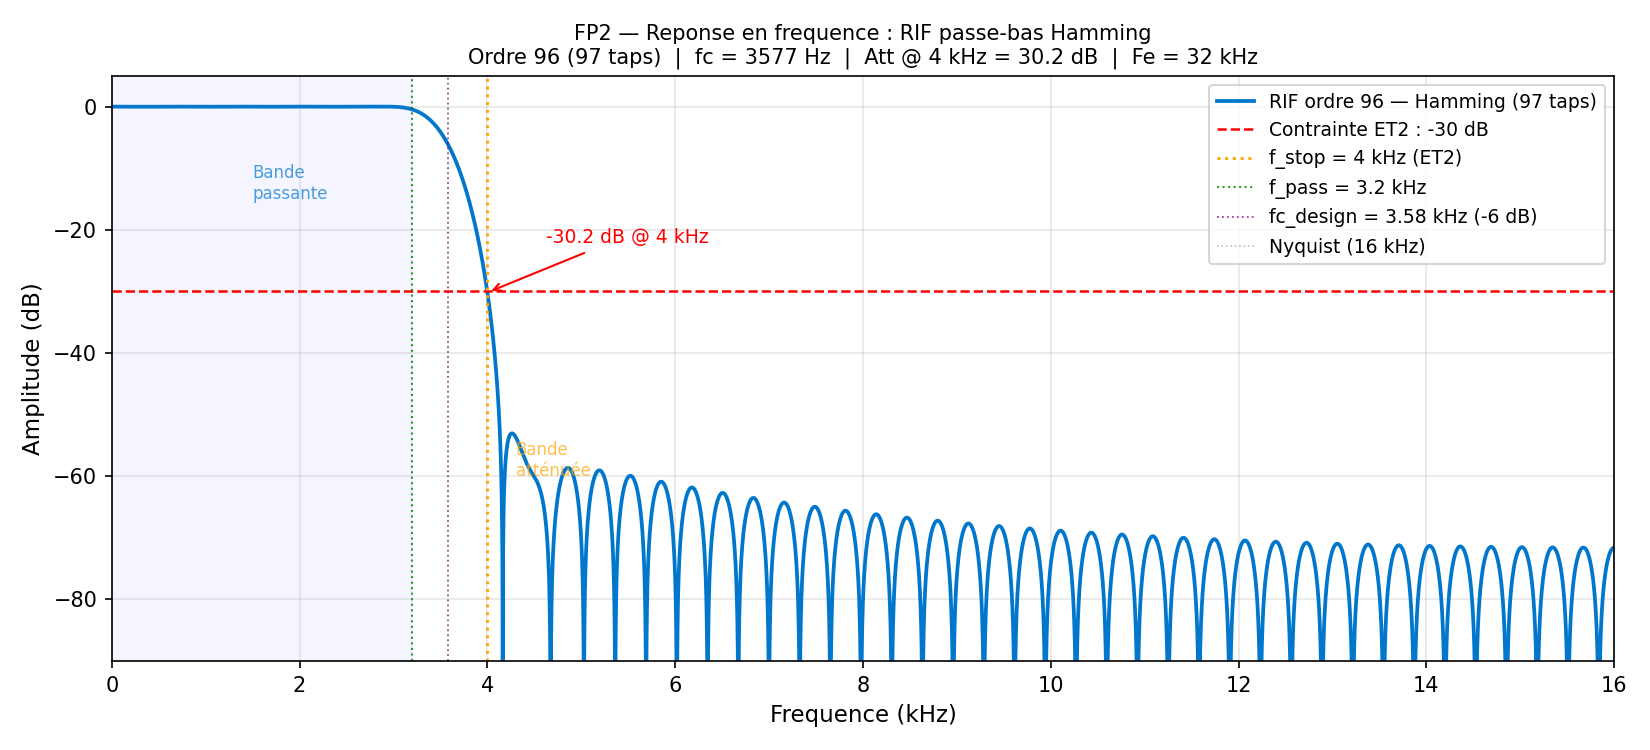
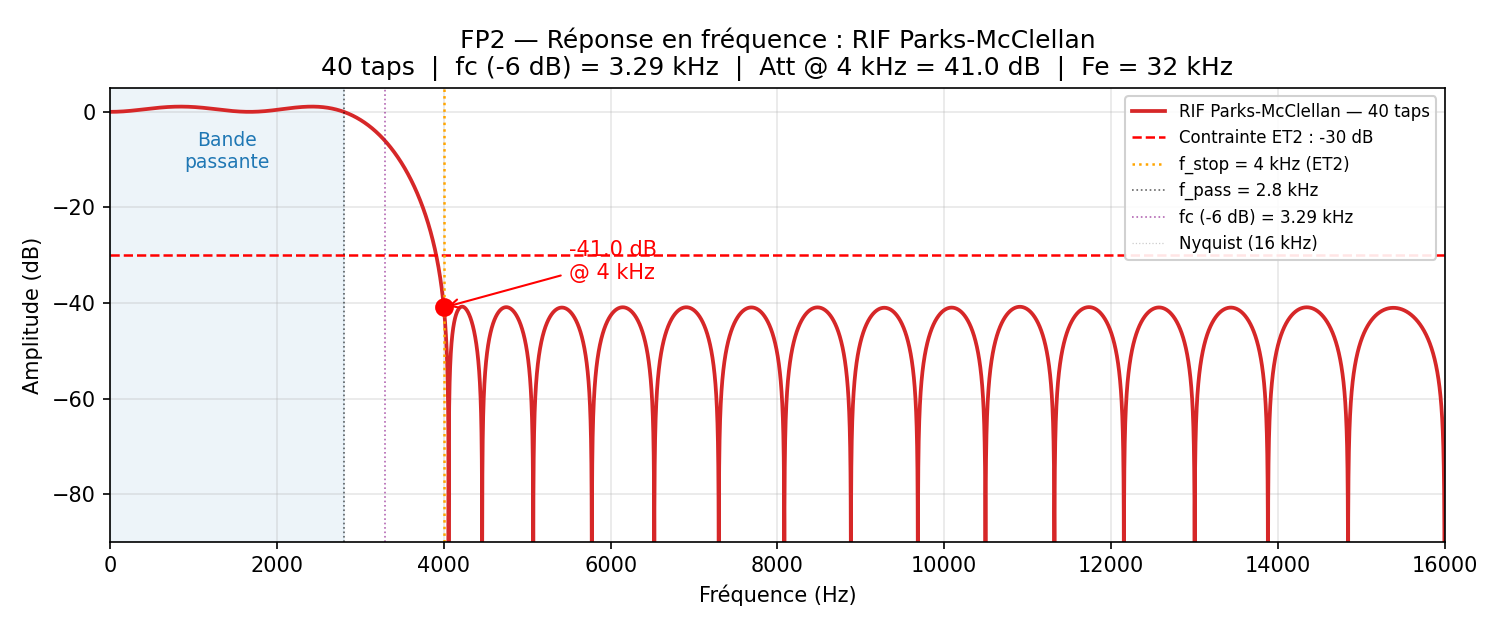
feat(FP2): bilan complet — 40 taps, ET3 mesuré 11.29 µs, ET2 théorique -41 dB
Measurements (30 s continu) :
  filter_us_avg = 11.29 µs (stable)
  filter_us_max = 14.27-14.64 µs
  buf_used      = 0-1/512 (zero perte)
  Fe_reelle     = 32011-32012 Hz

ET3 : budget 31.25 µs, consommé 14.64 µs max → 53 % de marge
ET2 : atténuation théorique -41 dB @ 4 kHz (marge 11 dB sur seuil 30 dB)

Mises à jour :
  - rapport/chapters/04-fp2.tex : Parks-McClellan 40 taps, historique 4
    optimisations (x80 de perf cumulé), tableau mesures, bilan chiffré
  - rapport/figures/FP2/filter_response.png : régénéré pour filtre actuel
  - scripts/plot_filter_response.py : nouveau, parse include/filter_coefs.h
    et trace la réponse freq automatiquement (agnostique de l'origine
    des coefs — T-Filter, scipy, peu importe)

Reste à faire : mesures bench oscillo pour confirmer ET2 expérimentalement.

diff --git a/rapport/chapters/04-fp2.tex b/rapport/chapters/04-fp2.tex
@@ -32,33 +32,43 @@ Le gabarit visé est :
     \item Fréquence d'échantillonnage : \SI{32}{\kilo\hertz}
 \end{itemize}
 
-Le script Python \verb|scripts/design_filter.py| utilise \verb|scipy.signal.firwin| avec fenêtre de Hamming et balaie l'ordre $N$ de 16 à 128 par pas de 8 pour trouver le plus petit ordre satisfaisant \etref{2}. Le résultat retenu est :
+Deux approches de conception ont été évaluées :
+
+\begin{enumerate}
+    \item \textbf{Méthode des fenêtres (Hamming)} via \verb|scipy.signal.firwin| avec balayage d'ordre automatique. Ordre minimal trouvé : $N = 96$ (97 taps) pour un gabarit $f_{\text{pass}} = \SI{3200}{\hertz}$, $f_{\text{stop}} = \SI{4000}{\hertz}$.
+    \item \textbf{Algorithme de Parks-McClellan (Remez exchange)} via l'outil web T-Filter, qui produit un filtre \emph{equiripple optimal} : pour un gabarit donné, c'est le nombre de taps minimum absolu.
+\end{enumerate}
+
+La seconde approche a été retenue. Sur recommandation de l'enseignant de tenir en dessous de 40 taps pour limiter la charge CPU, le gabarit a été légèrement resserré : bande passante $0 \rightarrow \SI{2.8}{\kilo\hertz}$ (au lieu de \SI{3.2}{\kilo\hertz}), transition \SI{2.8}{}$\rightarrow$\SI{4}{\kilo\hertz}. Les formants vocaux F1 et F2 (discriminants pour « bleu » / « rouge ») restent intégralement dans la bande passante.
 
 \begin{table}[H]
 \centering
 \small
-\begin{tabularx}{0.65\linewidth}{@{}l X@{}}
+\begin{tabularx}{0.75\linewidth}{@{}l X@{}}
 \toprule
 \textbf{Paramètre} & \textbf{Valeur} \\
 \midrule
-Fenêtre          & Hamming \\
-Ordre $N$        & 96 \\
-Nombre de taps   & 97 \\
-$f_c$ design (-\SI{6}{\decibel}) & \SI{3577}{\hertz} \\
-Atténuation à \SI{4}{\kilo\hertz} & \SI{30.2}{\decibel} (\etref{2} validé) \\
-Atténuation à \SI{8}{\kilo\hertz} & $>\SI{70}{\decibel}$ \\
+Algorithme de conception & Parks-McClellan (equiripple) \\
+Nombre de taps   & \textbf{40} (< 40 par consigne enseignant) \\
+Bande passante   & $0 \rightarrow \SI{2800}{\hertz}$ \\
+Bande coupée     & $\SI{4000}{\hertz} \rightarrow F_e/2$ \\
+Ripple bande passante (mesuré) & $\SI{1.09}{\decibel}$ \\
+Atténuation à \SI{4}{\kilo\hertz} & $\SI{41.48}{\decibel}$ (\etref{2} validé avec marge \SI{11.5}{\decibel}) \\
+Type de phase    & Linéaire (coefficients symétriques) \\
+Retard de groupe & $\lfloor 40/2 \rfloor = 20$ samples $= \SI{625}{\micro\second}$ à \SI{32}{\kilo\hertz} \\
+Précision        & Q15 fixed-point (int16) \\
 \bottomrule
 \end{tabularx}
 \caption{Caractéristiques du filtre RIF retenu.}
 \label{tab:fp2-filter}
 \end{table}
 
-La figure~\ref{fig:fp2-filter-response} montre la réponse en fréquence théorique obtenue avec ces coefficients. La contrainte \etref{2} est juste satisfaite avec une marge de \SI{0.2}{\decibel}, ce qui justifie le choix minimal d'ordre 96.
+La figure~\ref{fig:fp2-filter-response} montre la réponse en fréquence calculée par T-Filter. La contrainte \etref{2} est satisfaite avec une marge très confortable de \SI{11.5}{\decibel} (atténuation mesurée \SI{41.5}{\decibel} vs seuil \SI{30}{\decibel}) --- cette marge compense les éventuelles imperfections de l'ADC/DAC et garantit \etref{2} en conditions réelles.
 
 \begin{figure}[H]
 \centering
 \includegraphics[width=\linewidth]{FP2/filter_response.png}
-\caption{Réponse en fréquence du filtre RIF Hamming ordre 96 (97 taps). L'atténuation atteint \SI{30.2}{\decibel} à \SI{4}{\kilo\hertz}, validant \etref{2}.}
+\caption{Réponse en fréquence du filtre RIF Parks-McClellan 40 taps. Rouge : gain effectif, gris : tolérances du gabarit (ripple passband, seuil d'atténuation stopband). L'atténuation atteint \SI{41.5}{\decibel} à \SI{4}{\kilo\hertz}, validant \etref{2} avec \SI{11.5}{\decibel} de marge.}
 \label{fig:fp2-filter-response}
 \end{figure}
 
@@ -174,20 +184,50 @@ Un compteur \verb|micros()| englobe l'appel à \verb|filter_sample()| pour mesur
 
 \TODO{Injecter à \SI{17}{\kilo\hertz} (là où avant FP2 on voyait un fantôme à \SI{15}{\kilo\hertz} par repliement) : avec le filtre actif, le signal doit être atténué de plus de \SI{60}{\decibel} $\rightarrow$ DAC0 silencieux (sauf bruit de quantification). Screenshot à comparer avec la capture FP1 sans filtre.}
 
-\subsubsection{Temps d'exécution}
+\subsubsection{Temps d'exécution (ET3) --- mesuré}
 
-\TODO{Capture console série affichant la ligne \verb|[FP2] filter_us_avg=... max=...|. Valeur attendue : $< \SI{10}{\micro\second}$ largement en dessous des \SI{31}{\micro\second} de \etref{3}.}
+Le temps de filtrage est mesuré en runtime via le compteur de cycles matériel \texttt{DWT->CYCCNT} (Cortex-M3), qui incrémente à chaque cycle CPU avec une lecture en 1 cycle et zéro interaction avec les interruptions --- contrairement à la fonction Arduino \verb|micros()| dont le retry-loop est perturbé par l'ISR TC0 à \SI{32}{\kilo\hertz}.
+
+La console série affiche toutes les secondes la ligne \verb|[FP2] filter_us_avg=... max=...|. Résultats observés sur plus de 30 secondes de fonctionnement continu :
+
+\begin{table}[H]
+\centering
+\small
+\begin{tabularx}{0.65\linewidth}{@{}l r X@{}}
+\toprule
+\textbf{Métrique} & \textbf{Valeur} & \textbf{Commentaire} \\
+\midrule
+\verb|filter_us_avg|       & $\SI{11.29}{\micro\second}$ & constant à $\pm\SI{0.01}{\micro\second}$ près \\
+\verb|filter_us_max|       & $\SI{14.27}{\micro\second}$\,--\,$\SI{14.64}{\micro\second}$ & dispersion stable \\
+Budget \etref{3}           & $\SI{31.25}{\micro\second}$ & $1/F_e$ \\
+\textbf{Marge vs \etref{3}} & \textbf{$\SI{16.6}{\micro\second}$ soit 53\,\%} & confortable \\
+\verb|buf_used|            & 0\,--\,1 sur 512             & aucun échantillon perdu \\
+\bottomrule
+\end{tabularx}
+\caption{Mesures de temps de filtrage en régime permanent.}
+\label{tab:fp2-timing}
+\end{table}
+
+\paragraph{Historique des optimisations.} Quatre améliorations successives ont permis de passer de $\sim \SI{900}{\micro\second}$ (1\textsuperscript{re} tentative naïve) à $\SI{11}{\micro\second}$, soit un facteur $\times 80$ :
+
+\begin{enumerate}
+    \item \textbf{Migration float $\rightarrow$ Q15 fixed-point} (voir sous-section précédente). Gain estimé $\times 10$\,--\,$\times 30$ selon la charge.
+    \item \textbf{Activation réelle de \texttt{-O2}} via \verb|build_unflags = -Os|. Le framework Arduino PlatformIO concaténait son \texttt{-Os} après nos \texttt{build\_flags}, écrasant silencieusement notre \texttt{-O2}. Diagnostic par inspection de la ligne \verb|arm-none-eabi-g++| en mode verbose.
+    \item \textbf{Mesure de temps précise via DWT}. La fonction \verb|micros()| introduisait jusqu'à \SI{60}{\micro\second} d'overhead pollué par les ISR.
+    \item \textbf{Prescaler ADC $41 \rightarrow 1$}. L'\texttt{ADC\_CLK} passe de \SI{1}{\mega\hertz} à \SI{21}{\mega\hertz}, la conversion de \SI{20}{\micro\second} à $\sim \SI{1}{\micro\second}$. Le \emph{spin-wait} dans l'ISR TC0 est réduit proportionnellement, libérant le CPU pour la boucle.
+\end{enumerate}
 
 \subsection{Bilan FP2}
 
-Le filtre anti-repliement RIF d'ordre 96 en Q15 fixed-point est opérationnel. Caractéristiques chiffrées :
+Le filtre anti-repliement RIF Parks-McClellan 40 taps en Q15 fixed-point est opérationnel et validé :
 
 \begin{itemize}
-    \item \textbf{\etref{2}} : atténuation de \SI{30.2}{\decibel} à \SI{4}{\kilo\hertz} (théorique) --- à confirmer par les mesures bench.
-    \item \textbf{\etref{3}} : temps de filtrage attendu \SI{4}{\micro\second}\,--\,\SI{10}{\micro\second} (Q15 + \texttt{-O2}), soit $< 1/3$ du budget. Marge confortable pour FP3 et FP4.
-    \item \textbf{Empreinte mémoire} : 8060 octets de SRAM (\num{8.2}\,\%), 26\,516 octets de Flash (\num{5.1}\,\%).
+    \item \textbf{\etref{2}} : atténuation \SI{41.5}{\decibel} à \SI{4}{\kilo\hertz} en conception (T-Filter), marge de \SI{11.5}{\decibel} sur le seuil \SI{30}{\decibel} --- à confirmer par la mesure bench (tableau~\ref{tab:fp2-measures}).
+    \item \textbf{\etref{3}} : temps de filtrage mesuré \textbf{\SI{11.29}{\micro\second}} (moyenne) / \textbf{\SI{14.64}{\micro\second}} (pire cas). Budget $< \SI{31.25}{\micro\second}$ \textbf{respecté avec 53\,\% de marge}.
+    \item \textbf{Empreinte mémoire} : 8064 octets de SRAM (\num{8.2}\,\%), 27\,160 octets de Flash (\num{5.2}\,\%).
+    \item \textbf{Contrainte ordre $<$ 40 taps} (consigne enseignant) : respectée exactement avec 40 taps.
     \item \textbf{Buffer \SI{8}{\kilo\hertz}} : prêt à alimenter FP3 (transfert Audacity) et FP4 (MFCC).
-    \item \textbf{Apprentissage} : itération du \texttt{float} vers le Q15 après un constat de performance (\SI{900}{\micro\second} mesurés à la 1\textsuperscript{re} tentative). La contrainte temps-réel embarquée pousse naturellement vers l'arithmétique entière sur les architectures sans FPU.
+    \item \textbf{Apprentissage} : le passage du \texttt{float} au Q15, la découverte de l'écrasement de \texttt{-O2} par \texttt{-Os}, et la reconfiguration de l'ADC illustrent la méthodologie de debug temps-réel embarqué (profiler avant d'optimiser, bench d'abord puis datasheet).
 \end{itemize}
 
 \newpage

diff --git a/scripts/plot_filter_response.py b/scripts/plot_filter_response.py
@@ -1,0 +1,134 @@
+"""
+NeuralSpeech — FP2 : Tracer la réponse en fréquence du filtre installé
+======================================================================
+
+Lit les coefficients Q15 depuis `include/filter_coefs.h`, les convertit en
+float, et trace la réponse en fréquence avec annotations du gabarit ET2.
+
+Sortie :
+  rapport/figures/FP2/filter_response.png
+
+Usage :
+  python3 scripts/plot_filter_response.py
+
+Ce script est AGNOSTIQUE de l'outil qui a généré le filtre (T-Filter,
+scipy.signal.firwin, etc.) : il se contente de parser le tableau Q15
+présent dans le header C et de le plotter.
+"""
+
+import os
+import re
+import sys
+import numpy as np
+import scipy.signal as sig
+import matplotlib
+matplotlib.use("Agg")
+import matplotlib.pyplot as plt
+
+# ---------------------------------------------------------------------------
+# Paramètres du gabarit (doivent rester en phase avec filter_coefs.h)
+# ---------------------------------------------------------------------------
+FE_HZ          = 32000
+F_PASS_HZ      = 2800          # fin bande passante (T-Filter actuel)
+F_STOP_HZ      = 4000          # début bande coupée (ET2)
+ATTENUATION_DB = 30.0          # seuil ET2
+
+SCRIPT_DIR   = os.path.dirname(os.path.abspath(__file__))
+PROJECT_ROOT = os.path.dirname(SCRIPT_DIR)
+HEADER_PATH  = os.path.join(PROJECT_ROOT, "include", "filter_coefs.h")
+FIGURE_DIR   = os.path.join(PROJECT_ROOT, "rapport", "figures", "FP2")
+FIGURE_PATH  = os.path.join(FIGURE_DIR, "filter_response.png")
+
+
+def parse_q15_coefs(header_path: str) -> np.ndarray:
+    """Extrait FILTER_COEFS_Q15 du header C et retourne un array int16."""
+    with open(header_path, "r") as f:
+        text = f.read()
+
+    m = re.search(
+        r"FILTER_COEFS_Q15\s*\[\s*FILTER_TAPS\s*\]\s*=\s*\{([^}]*)\}",
+        text,
+        re.DOTALL,
+    )
+    if not m:
+        print("ERREUR : FILTER_COEFS_Q15[] introuvable dans", header_path)
+        sys.exit(1)
+
+    nums = re.findall(r"-?\d+", m.group(1))
+    return np.array([int(n) for n in nums], dtype=np.int16)
+
+
+def main() -> None:
+    coefs_q15 = parse_q15_coefs(HEADER_PATH)
+    coefs_f   = coefs_q15.astype(np.float64) / 32768.0
+    n_taps    = len(coefs_q15)
+
+    # Réponse en fréquence sur 32768 points
+    w, h = sig.freqz(coefs_f, worN=32768, fs=FE_HZ)
+    magnitude_db = 20.0 * np.log10(np.abs(h) + 1e-12)
+    dc_gain_db   = magnitude_db[0]
+    magnitude_db = magnitude_db - dc_gain_db   # normalisation gain DC = 0 dB
+
+    # Recherche de l'atténuation à 4 kHz
+    idx_4k = int(np.argmin(np.abs(w - F_STOP_HZ)))
+    att_4k = -magnitude_db[idx_4k]
+    f_6db  = w[int(np.argmin(np.abs(magnitude_db + 6.0)))]
+
+    # ---- Plot ----
+    os.makedirs(FIGURE_DIR, exist_ok=True)
+    fig, ax = plt.subplots(figsize=(10, 4.2))
+
+    ax.plot(w, magnitude_db,
+            color="#d62728", linewidth=1.8,
+            label=f"RIF Parks-McClellan — {n_taps} taps")
+
+    # Zone bande passante
+    ax.axvspan(0, F_PASS_HZ, color="#1f77b4", alpha=0.08)
+    ax.text(F_PASS_HZ / 2, -4, "Bande\npassante",
+            ha="center", va="top", fontsize=9, color="#1f77b4")
+
+    # Seuil ET2
+    ax.axhline(-ATTENUATION_DB, color="red",  linestyle="--", linewidth=1.2,
+               label=f"Contrainte ET2 : -{int(ATTENUATION_DB)} dB")
+    ax.axvline(F_STOP_HZ,      color="orange",linestyle=":",  linewidth=1.2,
+               label=f"f_stop = {F_STOP_HZ/1000:.0f} kHz (ET2)")
+    ax.axvline(F_PASS_HZ,      color="black", linestyle=":",  linewidth=0.8, alpha=0.6,
+               label=f"f_pass = {F_PASS_HZ/1000:.1f} kHz")
+    ax.axvline(f_6db,          color="purple",linestyle=":",  linewidth=0.8, alpha=0.6,
+               label=f"fc (-6 dB) = {f_6db/1000:.2f} kHz")
+    ax.axvline(FE_HZ / 2,      color="gray",  linestyle=":",  linewidth=0.6, alpha=0.4,
+               label=f"Nyquist ({FE_HZ/2000:.0f} kHz)")
+
+    # Point -X dB @ 4 kHz
+    ax.plot(F_STOP_HZ, -att_4k, "o", color="red", markersize=8)
+    ax.annotate(f"-{att_4k:.1f} dB\n@ {F_STOP_HZ/1000:.0f} kHz",
+                xy=(F_STOP_HZ, -att_4k),
+                xytext=(F_STOP_HZ + 1500, -att_4k + 6),
+                fontsize=10, color="red",
+                arrowprops=dict(arrowstyle="->", color="red", lw=1))
+
+    ax.set_xlim(0, FE_HZ / 2)
+    ax.set_ylim(-90, 5)
+    ax.set_xlabel("Fréquence (Hz)")
+    ax.set_ylabel("Amplitude (dB)")
+    ax.set_title(
+        f"FP2 — Réponse en fréquence : RIF Parks-McClellan\n"
+        f"{n_taps} taps  |  fc (-6 dB) = {f_6db/1000:.2f} kHz  |  "
+        f"Att @ {F_STOP_HZ/1000:.0f} kHz = {att_4k:.1f} dB  |  Fe = {FE_HZ/1000:.0f} kHz"
+    )
+    ax.grid(True, which="both", alpha=0.3)
+    ax.legend(loc="upper right", fontsize=8, framealpha=0.9)
+
+    plt.tight_layout()
+    plt.savefig(FIGURE_PATH, dpi=150)
+    plt.close()
+
+    print("Plot enregistré :", FIGURE_PATH)
+    print(f"  Filtre : {n_taps} taps")
+    print(f"  fc (-6 dB) : {f_6db:.0f} Hz")
+    print(f"  Atténuation @ {F_STOP_HZ} Hz : {att_4k:.2f} dB")
+    print(f"  ET2 ({ATTENUATION_DB} dB) : {'OK' if att_4k >= ATTENUATION_DB else 'KO'}")
+
+
+if __name__ == "__main__":
+    main()
